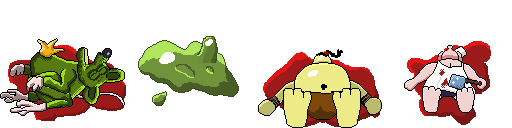
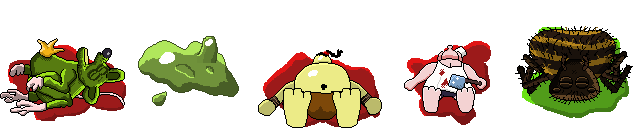
ADD New boss Giant Spider
Graphics + basis implementation
Not added to the game yet

diff --git a/src/GiantSpiderEntity.cpp b/src/GiantSpiderEntity.cpp
@@ -1,0 +1,258 @@
+#include "GiantSpiderEntity.h"
+#include "BoltEntity.h"
+#include "PlayerEntity.h"
+#include "sfml_game/SpriteEntity.h"
+#include "sfml_game/ImageManager.h"
+#include "sfml_game/SoundManager.h"
+#include "Constants.h"
+#include "WitchBlastGame.h"
+
+#include <iostream>
+
+GiantSpiderEntity::GiantSpiderEntity(float x, float y)
+  : EnnemyEntity (ImageManager::getImageManager()->getImage(IMAGE_GIANT_SPIDER), x, y)
+{
+  width = 128;
+  height = 128;
+  creatureSpeed = 180.0f;
+  velocity = Vector2D(0.0f, 0.0f);
+
+  hp = 400;
+  hpMax = hp;
+  hpDisplay = hp;
+
+  meleeDamages = 12;
+
+  type = ENTITY_ENNEMY;
+  bloodColor = bloodGreen;
+  shadowFrame = 3;
+  dyingFrame = 4;
+  deathFrame = FRAME_CORPSE_GIANT_SPIDER;
+  //agonizingSound = SOUND_RAT_DYING;
+  sprite.setOrigin(64.0f, 64.0f);
+
+  h = 2000;
+  state = 0;
+}
+
+void GiantSpiderEntity::animate(float delay)
+{
+  if (age <= 0.0f)
+  {
+    age += delay;
+    return;
+  }
+
+  if (!isAgonising)
+  {
+    if (state == 0) // falling
+    {
+      h -= delay * 300.0f;
+      if (h <= 0.0f)
+      {
+        h = 0;
+        state = 1;
+        timer = 1.0f;
+      }
+    }
+    else if (state == 1) // wait after falling
+    {
+      timer -= delay;
+      if (timer <= 0.0f)
+      {
+        state = 2;
+        velocity = Vector2D(creatureSpeed);
+        timer = 8.0f;
+      }
+    }
+    else if (state == 2) // moving
+    {
+      timer -= delay;
+      if (timer <= 0.0f)
+      {
+        state = 3;
+        velocity = Vector2D(0.0f, 0.0f);
+        timer = 1.0f;
+      }
+    }
+    else if (state == 3) // wait after falling
+    {
+      timer -= delay;
+      if (timer <= 0.0f) state = 4;
+    }
+    else if (state == 4) // moving up
+    {
+      h += delay * 300.0f;
+      if (h >= 1500.0f)
+      {
+        state = 0;
+      }
+    }
+
+    // frame
+    frame = 0;
+    if (state == 2)
+    {
+      frame = ((int)(age * 6.0f)) % 4;
+      if (frame == 2) frame = 0;
+      else if (frame == 3) frame = 2;
+    }
+  }
+
+  EnnemyEntity::animate(delay);
+  z = y + 40;
+}
+
+void GiantSpiderEntity::calculateBB()
+{
+  boundingBox.left = (int)x - 45;
+  boundingBox.width = 90;
+  boundingBox.top = (int)y - 25;
+  boundingBox.height =  65;
+}
+
+void GiantSpiderEntity::collideMapRight()
+{
+  velocity.x = -velocity.x;
+  if (recoil.active) recoil.velocity.x = -recoil.velocity.x;
+  else computeFacingDirection();
+}
+
+void GiantSpiderEntity::collideMapLeft()
+{
+  velocity.x = -velocity.x;
+  if (recoil.active) recoil.velocity.x = -recoil.velocity.x;
+  else computeFacingDirection();
+}
+
+void GiantSpiderEntity::collideMapTop()
+{
+  velocity.y = -velocity.y;
+  if (recoil.active) recoil.velocity.y = -recoil.velocity.y;
+  else computeFacingDirection();
+}
+
+void GiantSpiderEntity::collideMapBottom()
+{
+  velocity.y = -velocity.y;
+  if (recoil.active) recoil.velocity.y = -recoil.velocity.y;
+  else computeFacingDirection();
+}
+
+void GiantSpiderEntity::collideWithEnnemy(GameEntity* collidingEntity)
+{
+  EnnemyEntity* entity = static_cast<EnnemyEntity*>(collidingEntity);
+  if (entity->getMovingStyle() == movWalking)
+  {
+    setVelocity(Vector2D(entity->getX(), entity->getY()).vectorTo(Vector2D(x, y), creatureSpeed ));
+    computeFacingDirection();
+  }
+}
+
+void GiantSpiderEntity::calculateRotation()
+{
+  float h0 = 100;
+  float hf = 18;
+  if (state == 0)
+  {
+    if (h > h0) sprite.setRotation(180);
+    else if (h < hf) sprite.setRotation(0);
+    else
+    {
+      sprite.setRotation(180 + (h0 - h) * 180 / (h0 - hf));
+    }
+  }
+  if (state == 4)
+  {
+    if (h > h0) sprite.setRotation(180);
+    else if (h < hf) sprite.setRotation(0);
+    else
+    {
+      sprite.setRotation(180 - (h0 - h) * 180 / (h0 - hf));
+    }
+  }
+  else if (state == 2) sprite.setRotation(0);
+}
+
+void GiantSpiderEntity::render(sf::RenderTarget* app)
+{
+  if (!isDying)
+  {
+    // shadow
+    sprite.setRotation(0.0f);
+
+    if (state == 0 || state == 4)
+    {
+      int h0 = 850;
+      int hf = 600;
+      int fade = 0;
+      if (h < h0)
+      {
+        if (h < hf) fade = 255;
+        else
+        {
+          fade = (h0 - h) * 255 / (h0 - hf);
+          if (fade < 0) fade = 0;
+          else if (fade > 255) fade = 255;
+        }
+        sprite.setColor(sf::Color(255, 255, 255, fade));
+        sprite.setPosition(x, y);
+        sprite.setTextureRect(sf::IntRect(shadowFrame * width, 0, width, height));
+        app->draw(sprite);
+        sprite.setColor(sf::Color(255, 255, 255, 255));
+      }
+    }
+    else
+    {
+      sprite.setPosition(x, y);
+      sprite.setTextureRect(sf::IntRect(shadowFrame * width, 0, width, height));
+      app->draw(sprite);
+    }
+  }
+
+  calculateRotation();
+
+  if (state == 0 || state == 1 || state == 3 || state == 4)
+  {
+    if (y - h > 0)
+    {
+      int fade = 255;
+      if (state == 1) fade = 255 * timer;
+      else if (state == 3) fade = 255 * (1.0f - timer);
+      sf::RectangleShape line(sf::Vector2f(2, y - h));
+      line.setPosition(x - 1, 0);
+      line.setFillColor(sf::Color(255, 255, 255, fade));
+      app->draw(line);
+    }
+  }
+
+  sprite.setPosition(x, y - h);
+  sprite.setTextureRect(sf::IntRect(frame * width, 0, width, height));
+  app->draw(sprite);
+
+  float l = hpDisplay * ((MAP_WIDTH - 1) * TILE_WIDTH) / hpMax;
+
+  sf::RectangleShape rectangle(sf::Vector2f((MAP_WIDTH - 1) * TILE_WIDTH, 25));
+  rectangle.setFillColor(sf::Color(0, 0, 0,128));
+  rectangle.setPosition(sf::Vector2f(OFFSET_X + TILE_WIDTH / 2, OFFSET_Y + 25 + (MAP_HEIGHT - 1) * TILE_HEIGHT));
+  app->draw(rectangle);
+
+  rectangle.setSize(sf::Vector2f(l, 25));
+  rectangle.setFillColor(sf::Color(190, 20, 20));
+  rectangle.setPosition(sf::Vector2f(OFFSET_X + TILE_WIDTH / 2, OFFSET_Y + 25 + (MAP_HEIGHT - 1) * TILE_HEIGHT));
+  app->draw(rectangle);
+
+  game().write(          "Giant Spider",
+                         18,
+                         OFFSET_X + TILE_WIDTH / 2 + 10.0f,
+                         OFFSET_Y + 25 + (MAP_HEIGHT - 1) * TILE_HEIGHT + 1.0f,
+                         ALIGN_LEFT,
+                         sf::Color(255, 255, 255),
+                         app, 0, 0);
+
+  if (game().getShowLogical())
+  {
+    displayBoundingBox(app);
+    displayCenterAndZ(app);
+  }
+}

diff --git a/src/GiantSpiderEntity.h b/src/GiantSpiderEntity.h
@@ -1,0 +1,27 @@
+#ifndef GIANTSPIDERENTITY_H
+#define GIANTSPIDERENTITY_H
+
+#include "EnnemyEntity.h"
+
+class GiantSpiderEntity : public EnnemyEntity
+{
+  public:
+    GiantSpiderEntity(float x, float y);
+    virtual void animate(float delay);
+    virtual void calculateBB();
+    virtual void render(sf::RenderTarget* app);
+  protected:
+    virtual void collideMapRight();
+    virtual void collideMapLeft();
+    virtual void collideMapTop();
+    virtual void collideMapBottom();
+
+    virtual void collideWithEnnemy(GameEntity* collidingEntity);
+  private:
+    int state;
+    float timer;
+
+    void calculateRotation();
+};
+
+#endif // GIANTSPIDERENTITY_H

diff --git a/src/WitchBlastGame.cpp b/src/WitchBlastGame.cpp
@@ -82,6 +82,7 @@ WitchBlastGame::WitchBlastGame(): Game(SCREEN_WIDTH, SCREEN_HEIGHT)
   ImageManager::getImageManager()->addImage("media/giant_slime.png");
   ImageManager::getImageManager()->addImage("media/king_rat.png");
   ImageManager::getImageManager()->addImage("media/cyclop.png");
+  ImageManager::getImageManager()->addImage("media/giant_spider.png");
 
   ImageManager::getImageManager()->addImage("media/blood.png");
   ImageManager::getImageManager()->addImage("media/corpses.png");

diff --git a/src/Constants.h b/src/Constants.h
@@ -86,6 +86,7 @@ enum item_images {
   IMAGE_GIANT_SLIME,
   IMAGE_KING_RAT,
   IMAGE_CYCLOP,
+  IMAGE_GIANT_SPIDER,
 
   IMAGE_BLOOD,
   IMAGE_CORPSES,
@@ -158,7 +159,8 @@ enum corpses_ressources{
   FRAME_CORPSE_KING_RAT,
   FRAME_CORPSE_GIANT_SLIME,
   FRAME_CORPSE_CYCLOP,
-  FRAME_CORPSE_BUTCHER
+  FRAME_CORPSE_BUTCHER,
+  FRAME_CORPSE_GIANT_SPIDER
 };
 
 // Player game play
